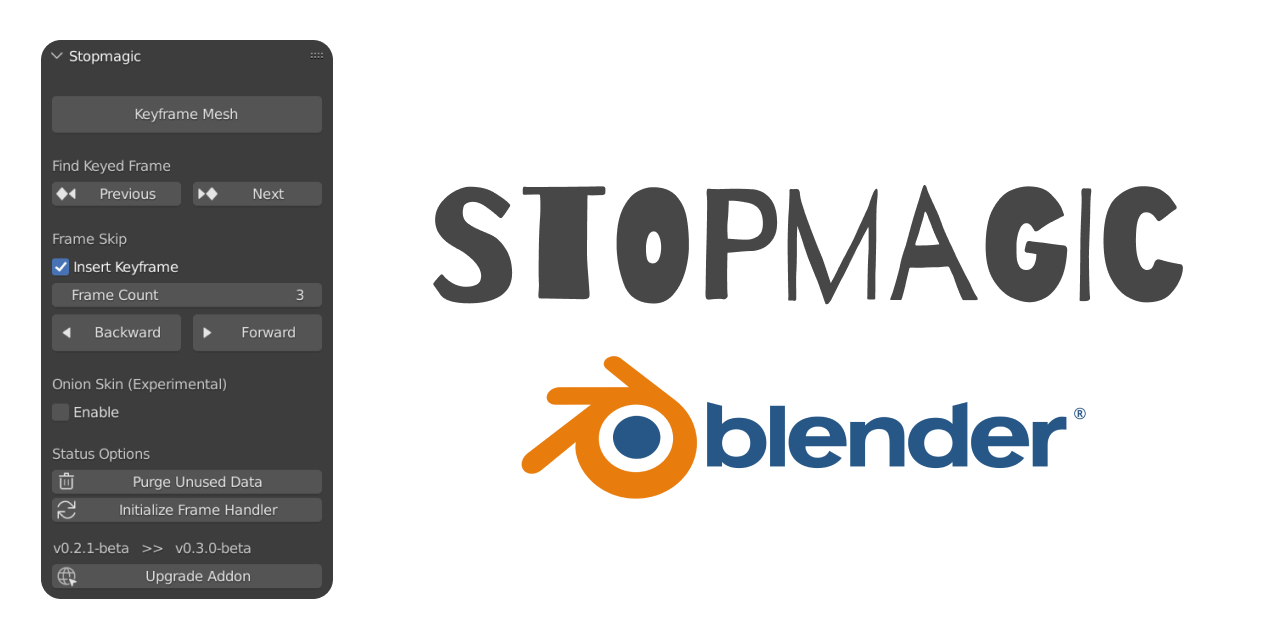
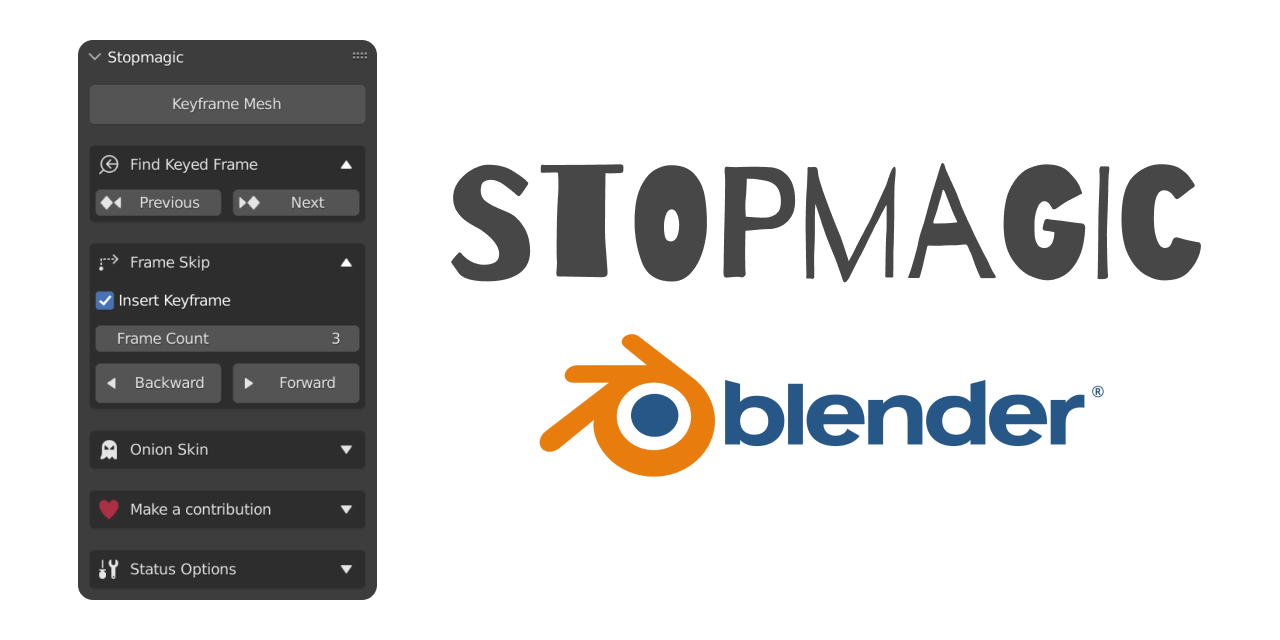
Version `0.3.2-beta`
- Updated Onion Skin logic

- Added ability to see onion skin of a specific number of past and
  future objects, and also to change this behaviour to that of a range

- Updated material and overall handling of onion skin objects

- Fixed multiple issues reported recently, including one where the addon
  would return the wrong index in order for a new mesh to be created,
  causing problems with keyframes at multiple positions and another one
  where the addon would automatically switch the shading type.

- Rehauled Panel UI

- Added contribution section to the Panel

- Sections in the panel are now separated by boxes

diff --git a/stopmagic/__init__.py b/stopmagic/__init__.py
@@ -8,23 +8,27 @@ if "bpy" in locals():
     importlib.reload(operators)
     importlib.reload(functions)
     importlib.reload(panel)
+    importlib.reload(icons)
 else:
     from stopmagic import preferences
     from stopmagic import operators
     from stopmagic import functions
     from stopmagic import panel
+    from stopmagic import icons
 
 from typing import List, Tuple
 import bpy
 import re
-from os.path import basename, dirname
+import os.path
+
 
 __package__ = "stopmagic"
+
 
 bl_info = {
     "name": "Stopmagic",
     "author": "Aldrin Mathew",
-    "version": (0, 3, 1),
+    "version": (0, 3, 2),
     "blender": (2, 91, 0),
     "location": "Sidebar > Stopmagic",
     "warning": "beta",
@@ -39,6 +43,7 @@ addon_keymaps: List[Tuple[bpy.types.KeyMap, bpy.types.KeyMapItem]] = []
 
 def register() -> None:
     global addon_keymaps
+    icons.register()
     preferences.register()
     panel.StopmagicPanel.bl_info = bl_info
     panel.register()
@@ -50,6 +55,7 @@ def register() -> None:
     operators.keyed_frame_next.register()
     operators.keyed_frame_previous.register()
     operators.upgrade_addon.register()
+    operators.contributions.register()
     bpy.app.handlers.load_post.append(functions.frame_handler)
     bpy.app.handlers.load_post.append(functions.handle_onion_skin)
     bpy.app.handlers.frame_change_post.clear()
@@ -69,11 +75,13 @@ def unregister() -> None:
     operators.keyed_frame_next.unregister()
     operators.keyed_frame_previous.unregister()
     operators.upgrade_addon.unregister()
+    operators.contributions.unregister()
     panel.unregister()
     bpy.app.handlers.load_post.clear()
     bpy.app.handlers.load_post.clear()
     bpy.app.handlers.frame_change_post.clear()
     bpy.app.handlers.frame_change_pre.clear()
+    icons.unregister()
     addon_keymaps.clear()
 
 
